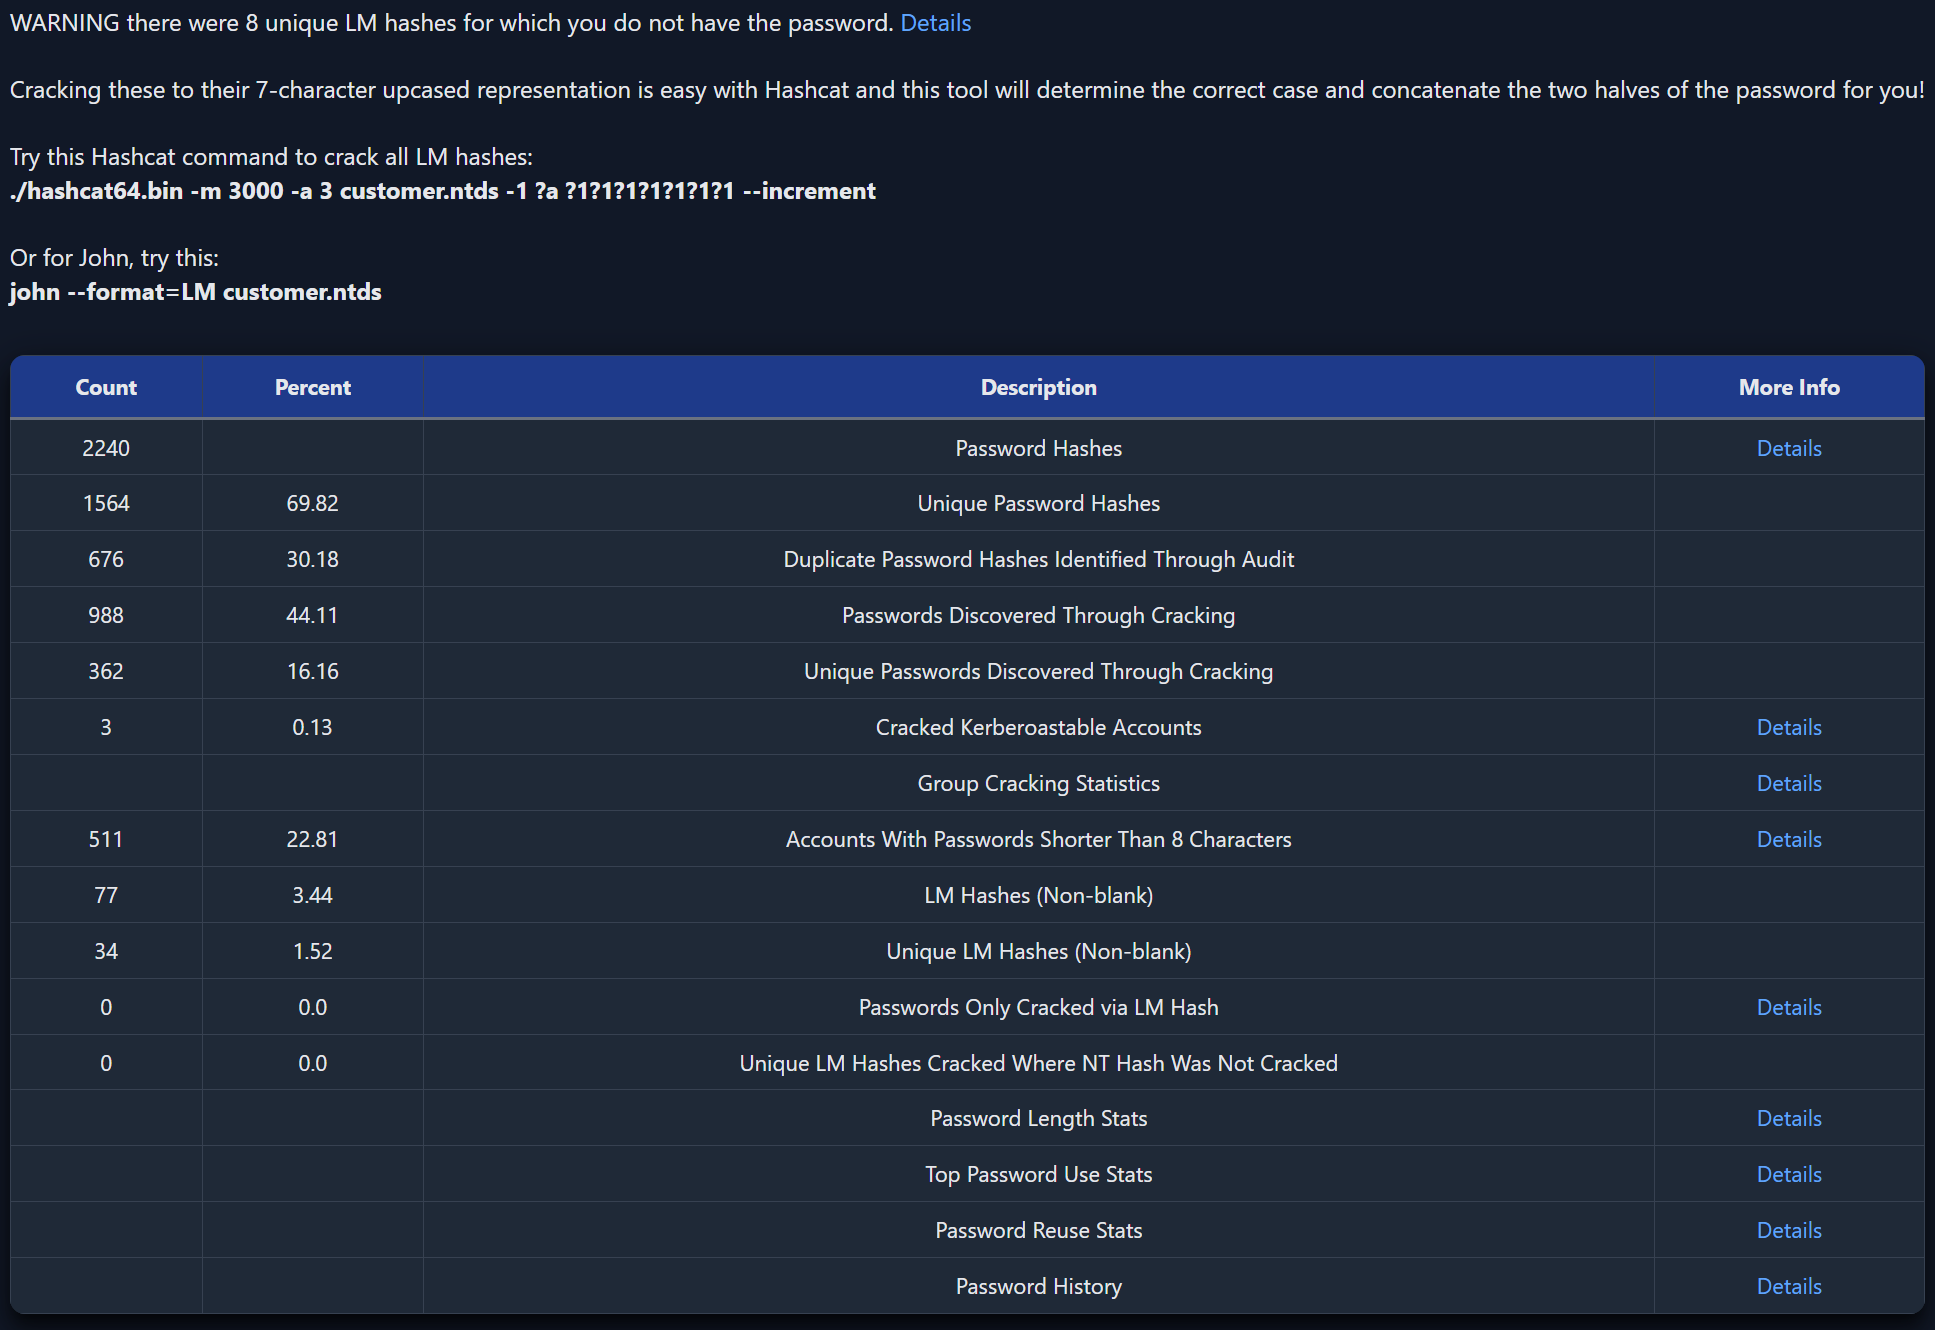
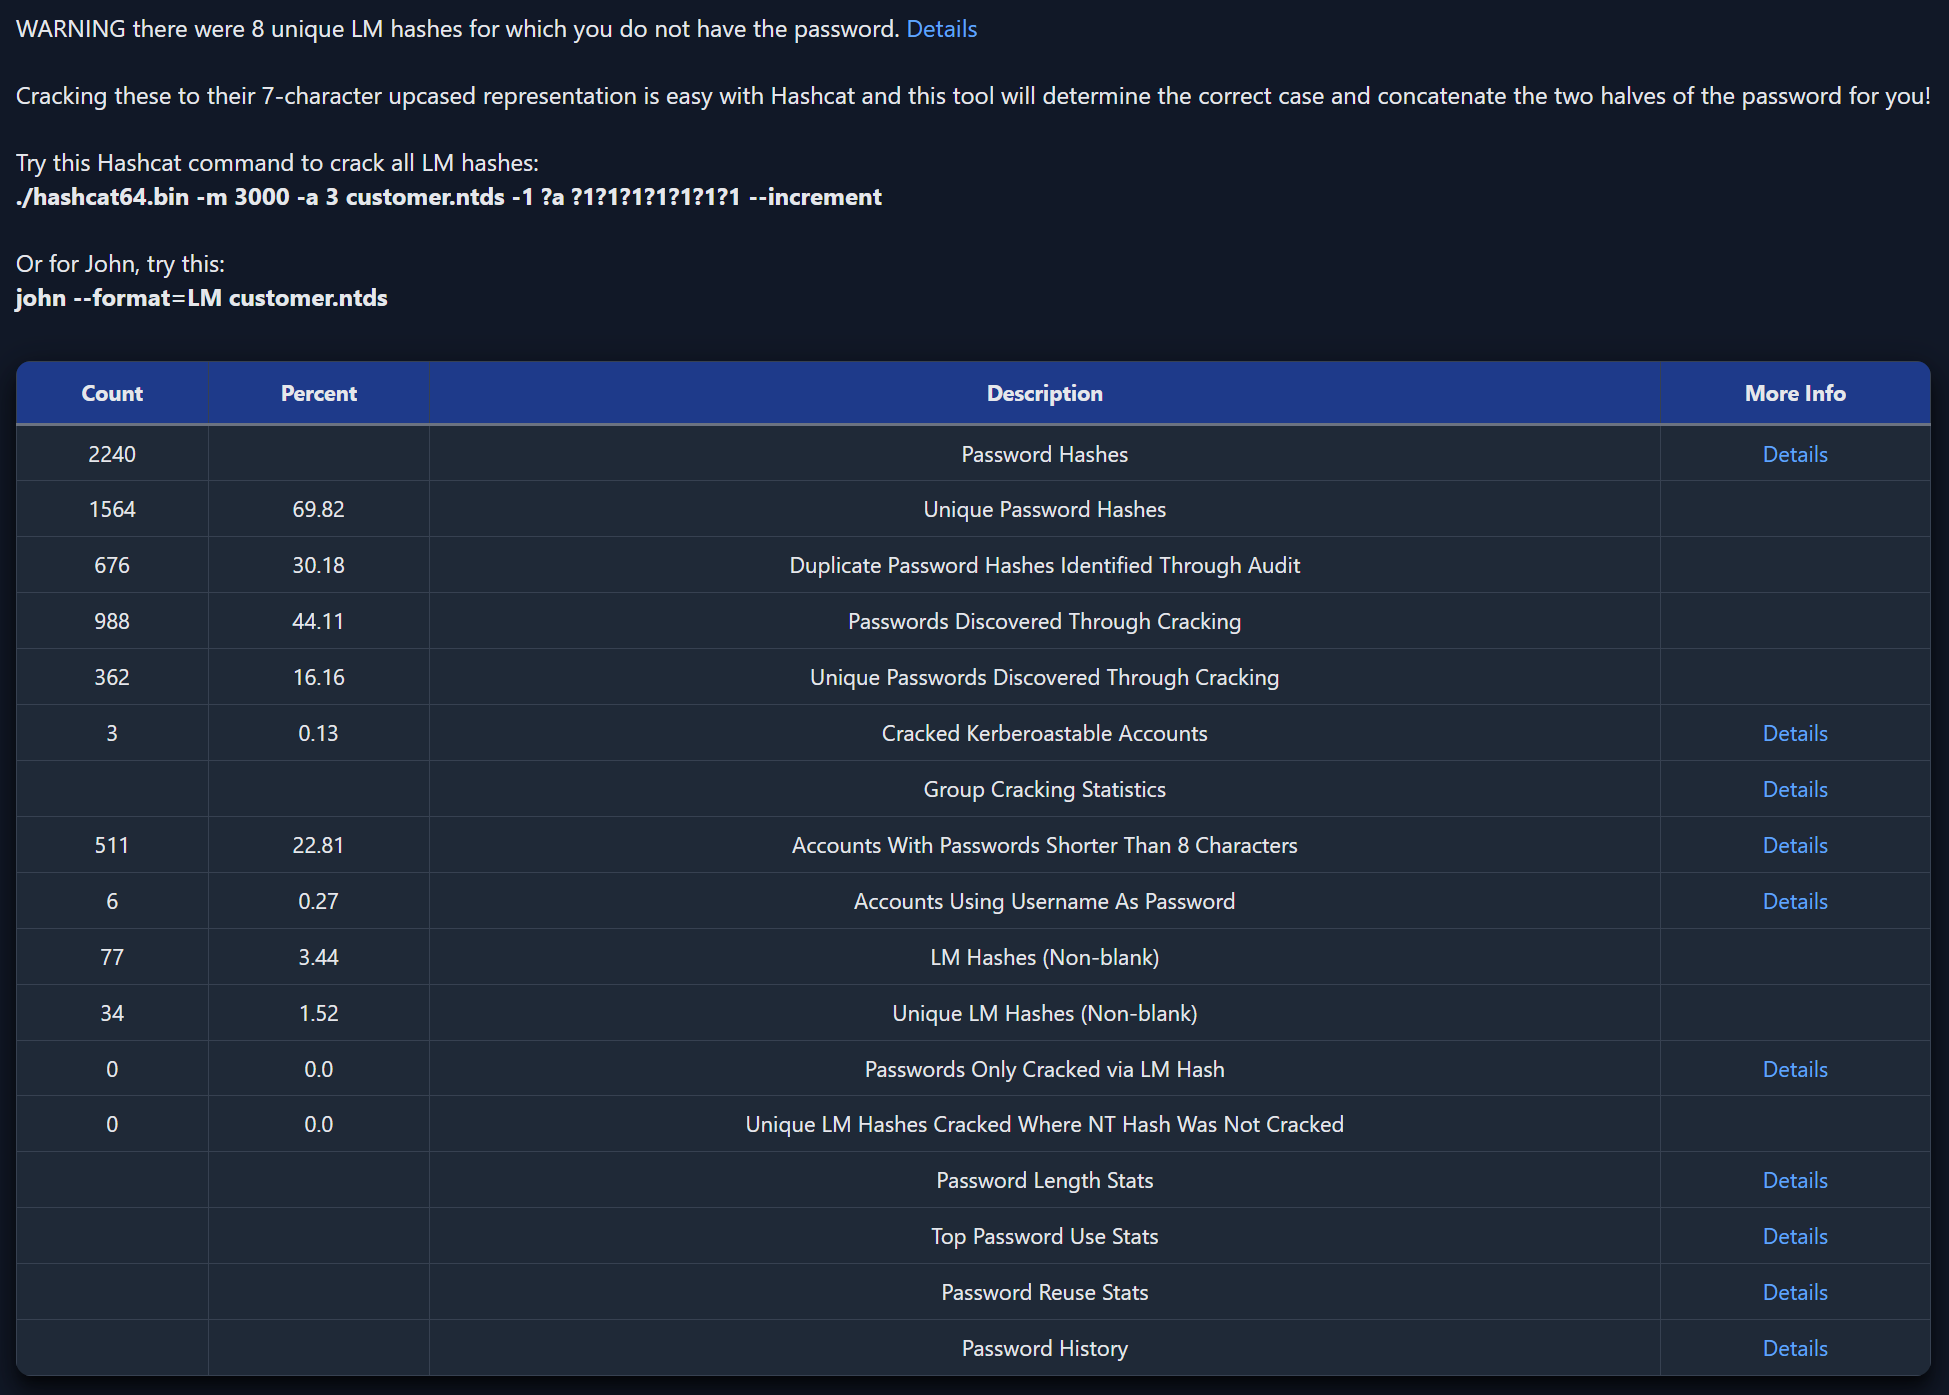
user as pass update

diff --git a/dpat.py b/dpat.py
@@ -365,7 +365,7 @@ if not speed_it_up:
         if password is not None:
             c.execute('UPDATE hash_infos SET only_lm_cracked = 1, password = \'' + password.replace("'", "''") + '\' WHERE nt_hash = \'' + pair[0] + '\'')
         count -= 1
-    
+
 # Total number of hashes in the NTDS file
 c.execute('SELECT username_full,password,LENGTH(password) as plen,nt_hash,only_lm_cracked FROM hash_infos WHERE history_index = -1 ORDER BY plen DESC, password')
 rows = c.fetchall()
@@ -566,6 +566,40 @@ if violating_rows:
     ))
 else:
     print(f"[+] No cracked passwords shorter than {min_len} characters.")
+
+try:
+    print("[*] Checking for users whose password equals their username...")
+    c.execute("""
+        SELECT username, password, LENGTH(password) AS plen, nt_hash
+        FROM hash_infos
+        WHERE history_index = -1
+          AND password IS NOT NULL
+    """)
+    rows = c.fetchall()
+
+    offenders = []
+    for username, password, plen, nt_hash in rows:
+        if username and password and username == password:
+            offenders.append((username, password, plen, nt_hash))
+
+    # Build the HTML details table
+    if offenders:
+        print(f"[+] Found {len(offenders)} users with username == password")
+        hbt_user_as_pass = HtmlBuilder()
+        hbt_user_as_pass.add_table_to_html(
+            offenders,
+            ["Username", "Password", "Password Length", "NT Hash"]
+        )
+
+        filename = hbt_user_as_pass.write_html_report("username_equals_password.html")
+        summary_table.append((
+            len(offenders),
+            pct(len(offenders), num_hashes),
+            "Accounts Using Username As Password",
+            f'<a href="{filename}">Details</a>'
+        ))
+except Exception as e:
+    print(f"[!] Error while checking username==password: {e!r}")
 
 # Number of LM hashes in the NTDS file, excluding the blank value
 c.execute('SELECT count(*) FROM hash_infos WHERE lm_hash is not "aad3b435b51404eeaad3b435b51404ee" AND history_index = -1')
